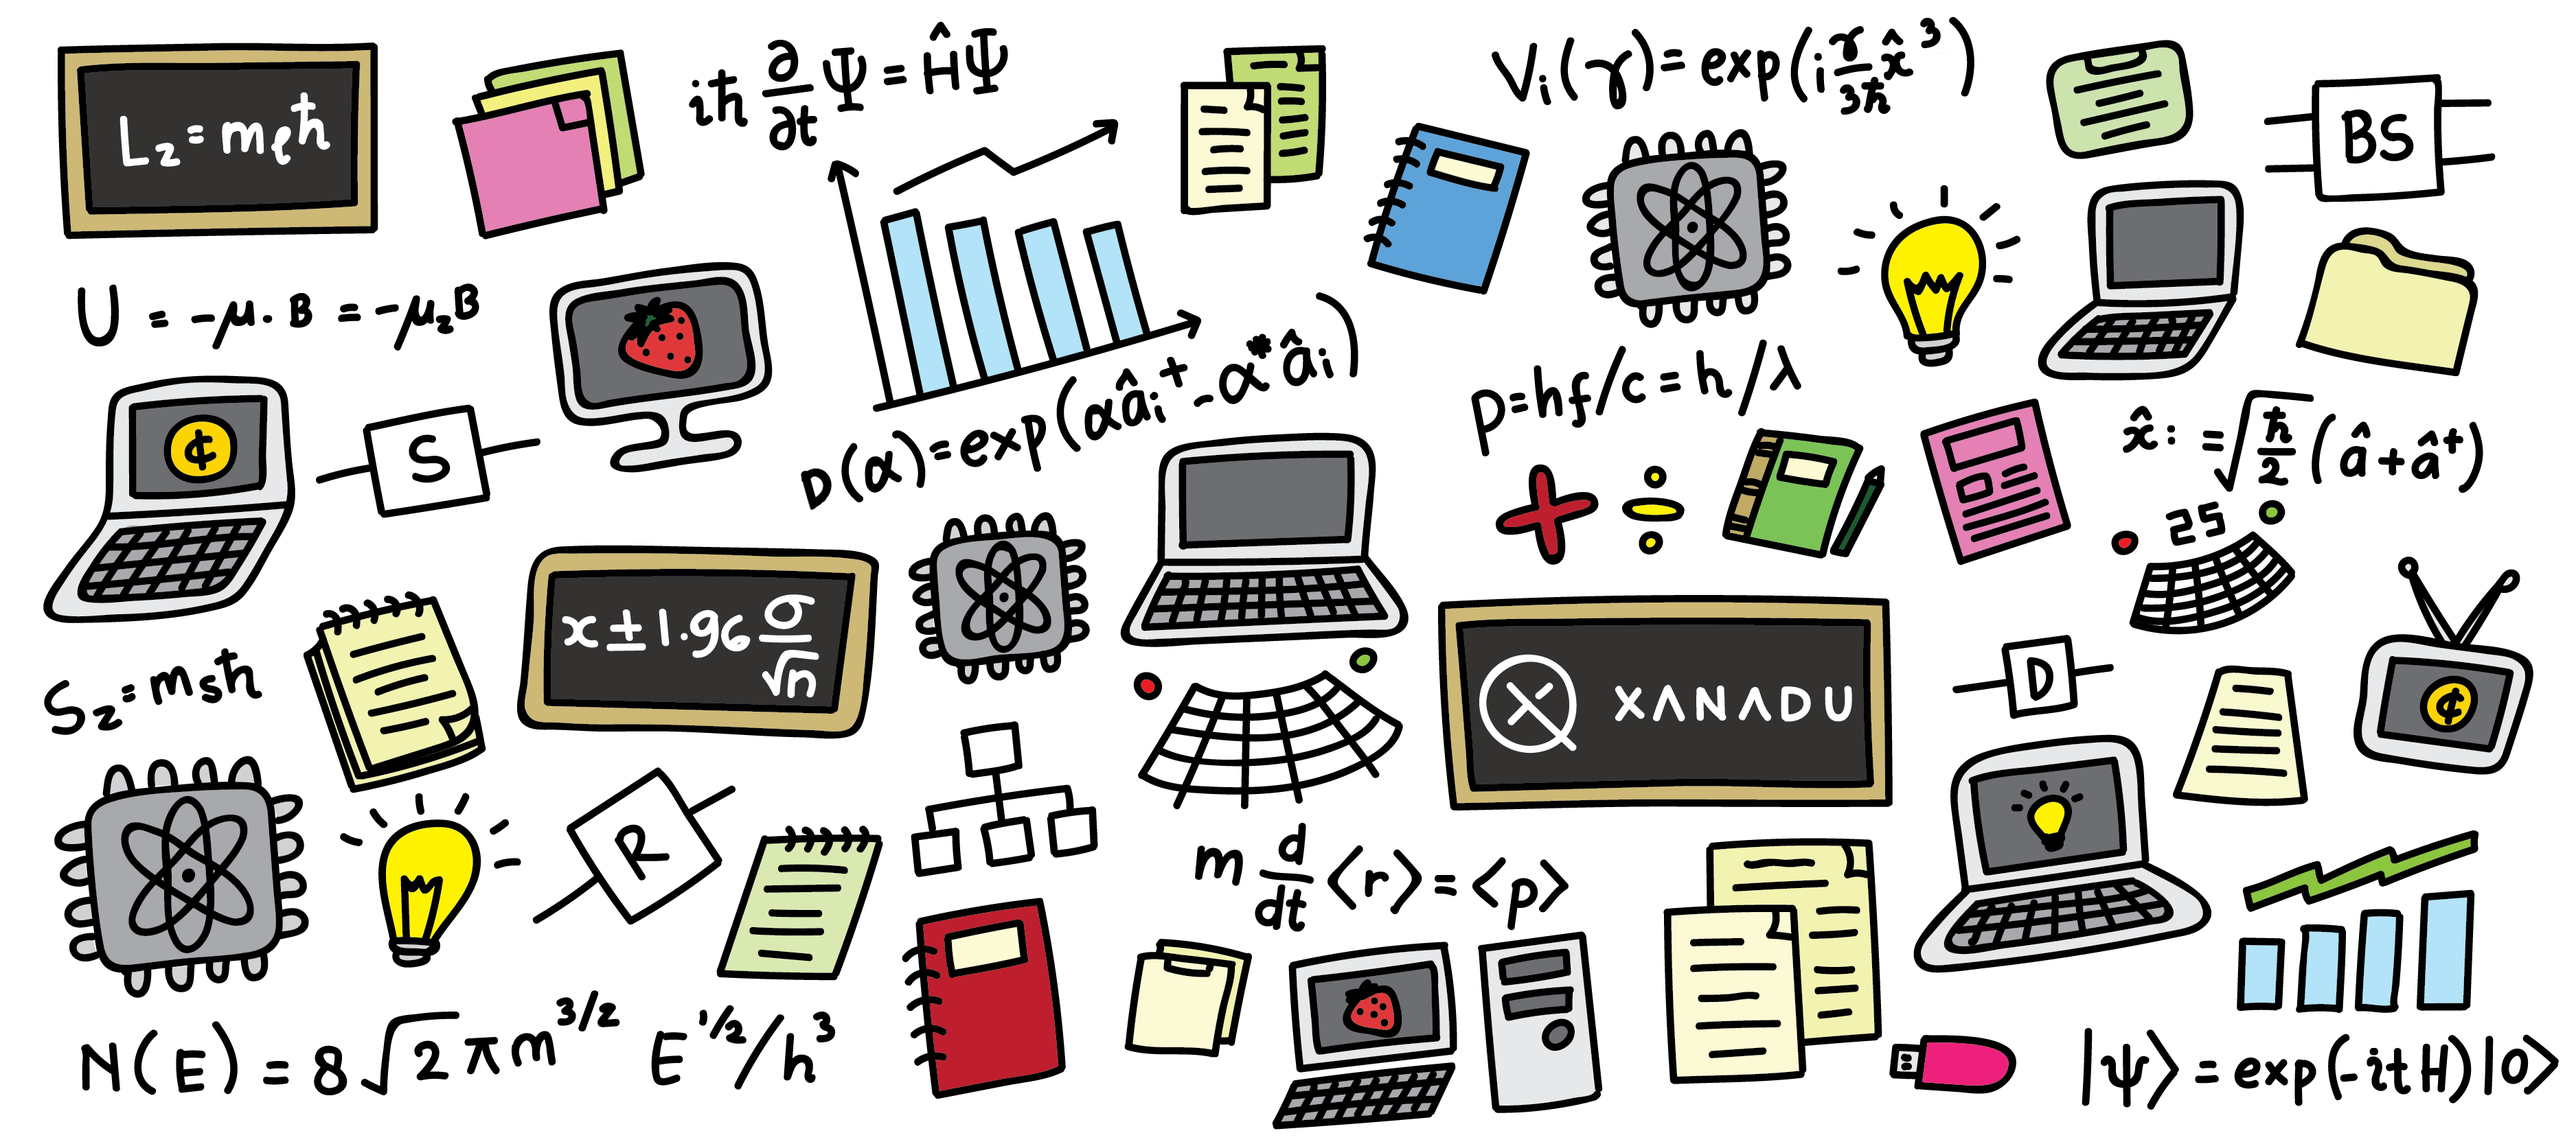
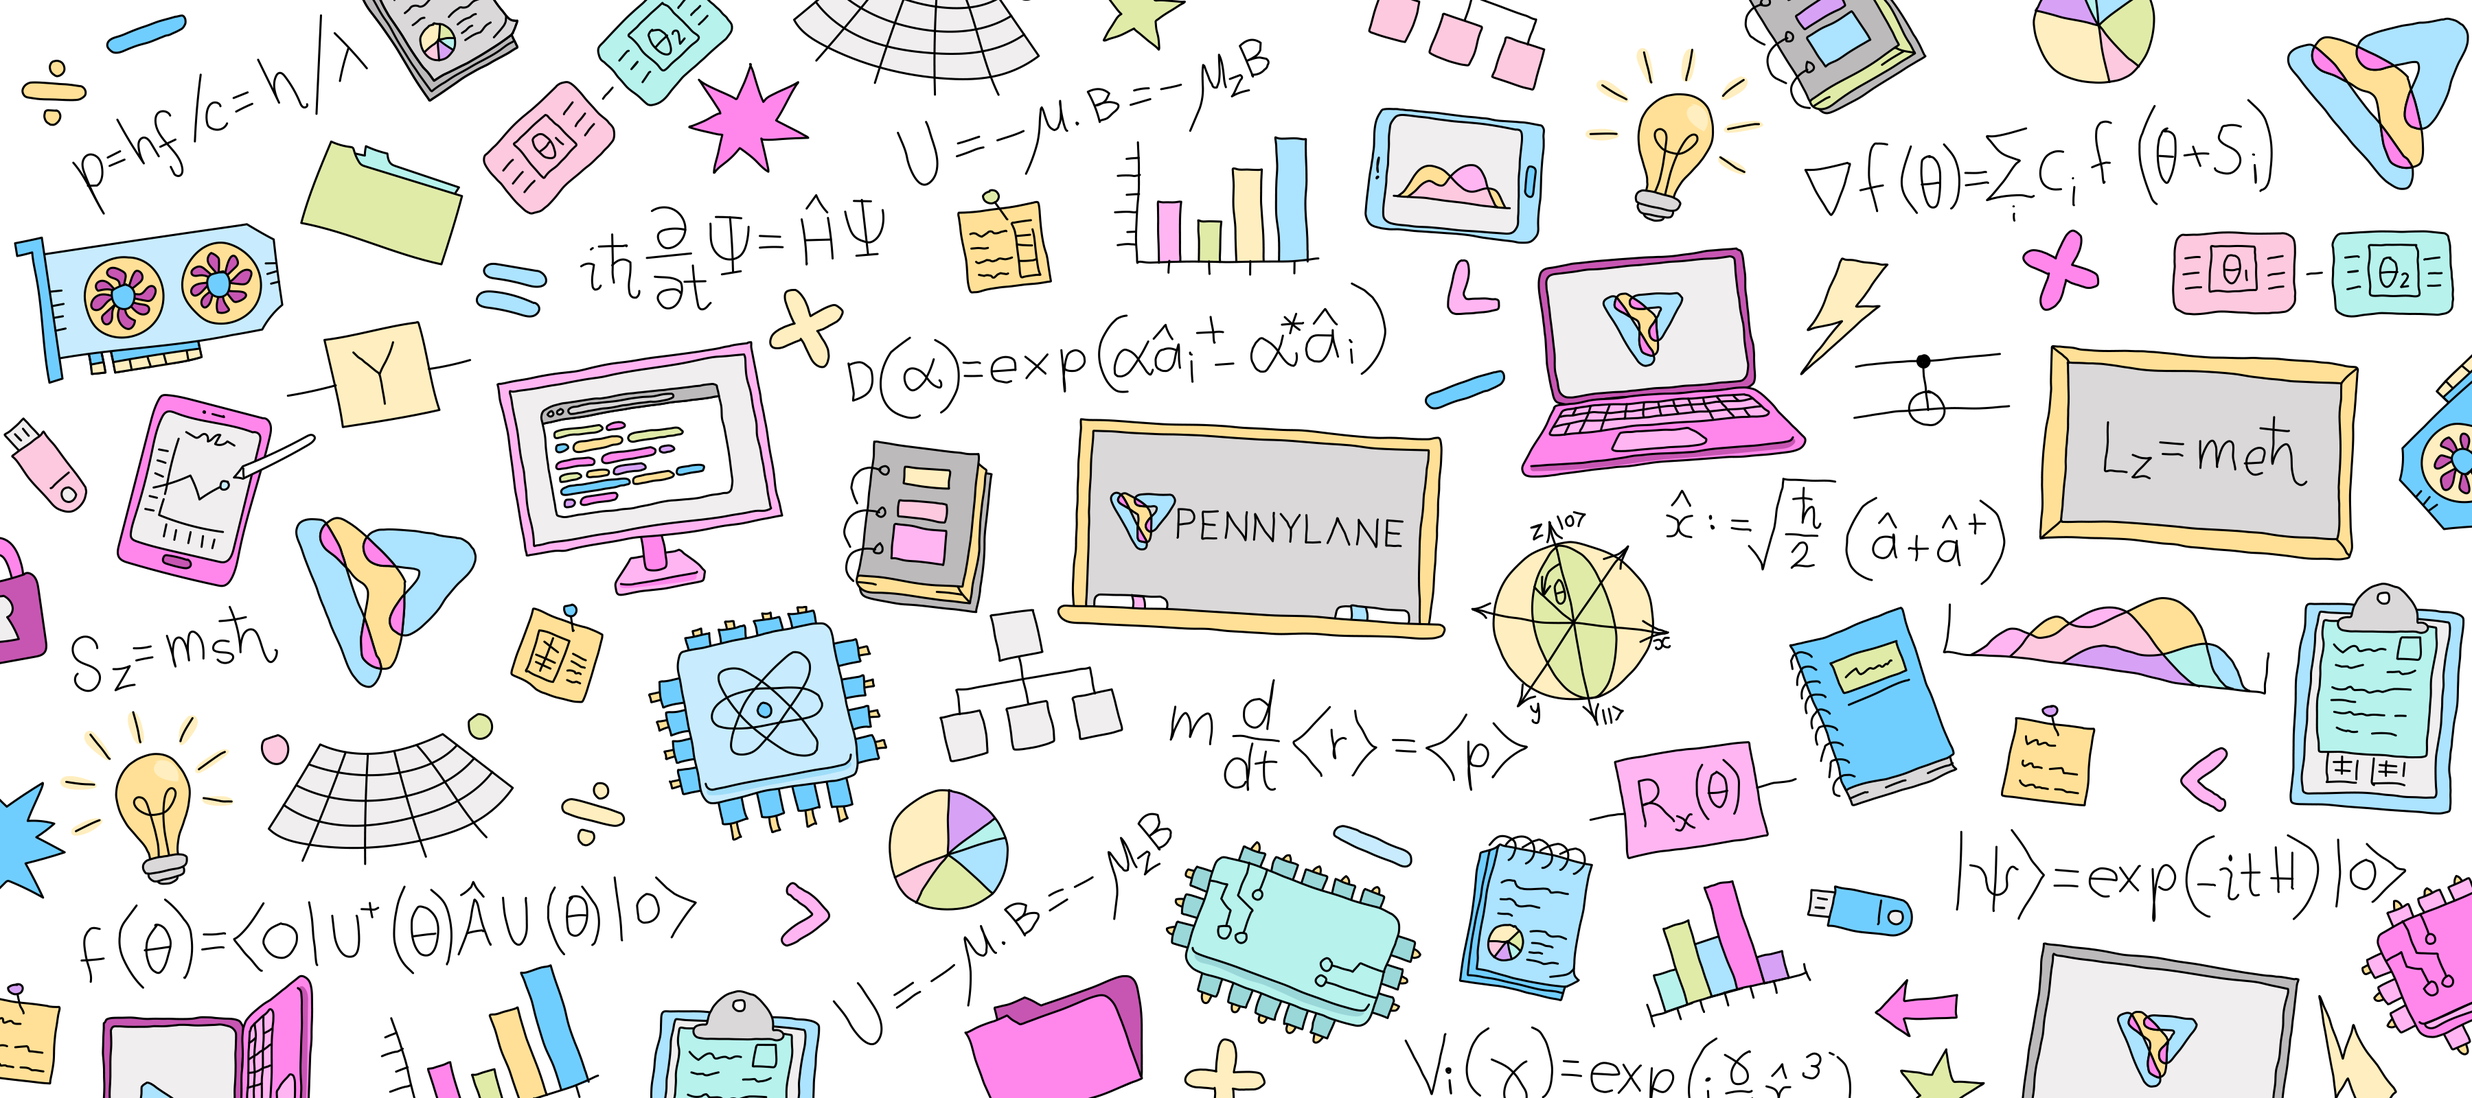
Add new background image (#55)

diff --git a/jinja/index.html b/jinja/index.html
@@ -3,20 +3,20 @@
 {% block navbar %}
 {% include "navbar.html" %}
 {% endblock %}
-<div class="parallax" style="background-image: none; box-shadow: none;">
+<div class="parallax" style="background-image: url('img/background.png'); box-shadow: none;">
     <div class="container">
 
-        <div class="pt-5 text-center teal-text text-lighten-2 mt-5">
-            <img src="img/pennylane_stacked.png" class="logo" srcset="img/pennylane_logo.png"/>
+        <div class="pt-5 text-center teal-text text-lighten-2">
+            <img src="img/pennylane_stacked.png" class="logo" srcset="img/pennylane_logo.svg"/>
         </div>
         <div class="row text-center">
-            <h3 class="col-12 mt-5 mb-5 grey-text" style="font-family: 'Roboto', sans-serif !important;">A cross-platform Python library for differentiable programming of quantum computers. Train a quantum computer the same way as a neural network.</h3>
+            <h3 class="col-12 mt-5 mb-5 dark-grey-text" style="font-family: 'Roboto', sans-serif !important;">A cross-platform Python library for differentiable programming of quantum computers. Train a quantum computer the same way as a neural network.</h3>
         </div>
 
         <div class="row">
             <div class="col-lg-4 mb-5">
                 <a href="https://pennylane.ai/qml">
-                    <div class="card card-image" style="background-image: url(img/learn.png); background-size: cover;">
+                    <div class="landing-card card-image" style="background-image: url(img/learn.png); background-size: cover;">
                         <div class="text-center d-flex align-items-center rgba-white-strong mask">
                             <div>
                                 <h3 class="card-title">
@@ -33,7 +33,7 @@
             </div>
             <div class="col-lg-4 mb-5">
                 <a href="https://pennylane.ai/qml/demonstrations.html">
-                    <div class="card card-image" style="background-image: url(img/blackbird.jpg);">
+                    <div class="landing-card card-image" style="background-image: url(img/blackbird.jpg);">
                         <div class="text-center d-flex align-items-center mask rgba-white-strong">
                             <div>
                                 <h3 class="card-title">
@@ -50,7 +50,7 @@
             </div>
             <div class="col-lg-4 mb-5">
                 <a href="https://codebook.xanadu.ai/">
-                    <div class="card card-image" style="background-image: url(img/codebook_blur.png); background-size: cover;">
+                    <div class="landing-card card-image" style="background-image: url(img/codebook_blur.png); background-size: cover;">
                         <div class="text-center d-flex align-items-center mask"  style="background-color: rgba(236, 221, 234, 0.8)">
                             <div style="width: 100%; min-height: 198px;">
                                 <h3 class="card-title">
@@ -217,14 +217,11 @@
 </div>
 
 
-<div class="row justify-content-center">
-<iframe width="800" height="450" src="https://www.youtube.com/embed/WOLzqeuXVT8?controls=0&modestbranding=1" title="Welcome to PennyLane" frameborder="0" allowfullscreen></iframe>
-</div>
-<br>
-<br>
-
-<div class="parallax" style="background-image: url('img/banner.png'); background-size: cover; min-height: 400px;">
-    <div class="view mask py-5 rgba-grey-slight" style="min-height: 400px;">
+<div class="parallax" style="background-image: url('img/banner.png'); background-size: cover; min-height: 800px; position: relative;">
+    <div class="view mask">
+        <div class="row justify-content-center" style="display: flex;width: 100vw;height: 100vh;justify-content: center;align-items: center;">
+            <iframe width="800px" height="450px" src="https://www.youtube.com/embed/WOLzqeuXVT8?controls=0&modestbranding=1" title="Welcome to PennyLane" frameborder="0" allowfullscreen></iframe>
+        </div>
     </div>
 </div>
 

diff --git a/site/style.css b/site/style.css
@@ -180,9 +180,9 @@ h5 {
 
 .news {
     background-color: #fefefe;
-    box-shadow: inset 0 2px 5px 0 rgba(0, 0, 0, .05), 0 2px 25px 2px rgba(0, 0, 0, .2) !important;
+    /*box-shadow: inset 0 2px 5px 0 rgba(0, 0, 0, .05), 0 2px 25px 2px rgba(0, 0, 0, .2) !important;*/
     max-width: 100%;
-    height: 40px;
+    height: 80px;
     margin-left: auto;
     margin-right: auto;
     overflow: hidden;
@@ -316,6 +316,17 @@ footer.page-footer .footer-copyright {
     border-radius: 10px!important;
 }
 
+.landing-card {
+    background-color: #fefefe;
+    max-width: 100%;
+    margin-left: auto;
+    margin-right: auto;
+    overflow: hidden;
+    border-radius: 10px;
+    -webkit-user-select: none;
+    text-align: center;
+    position: relative;
+}
 
 .card-image {
     transition: 0.4s;
